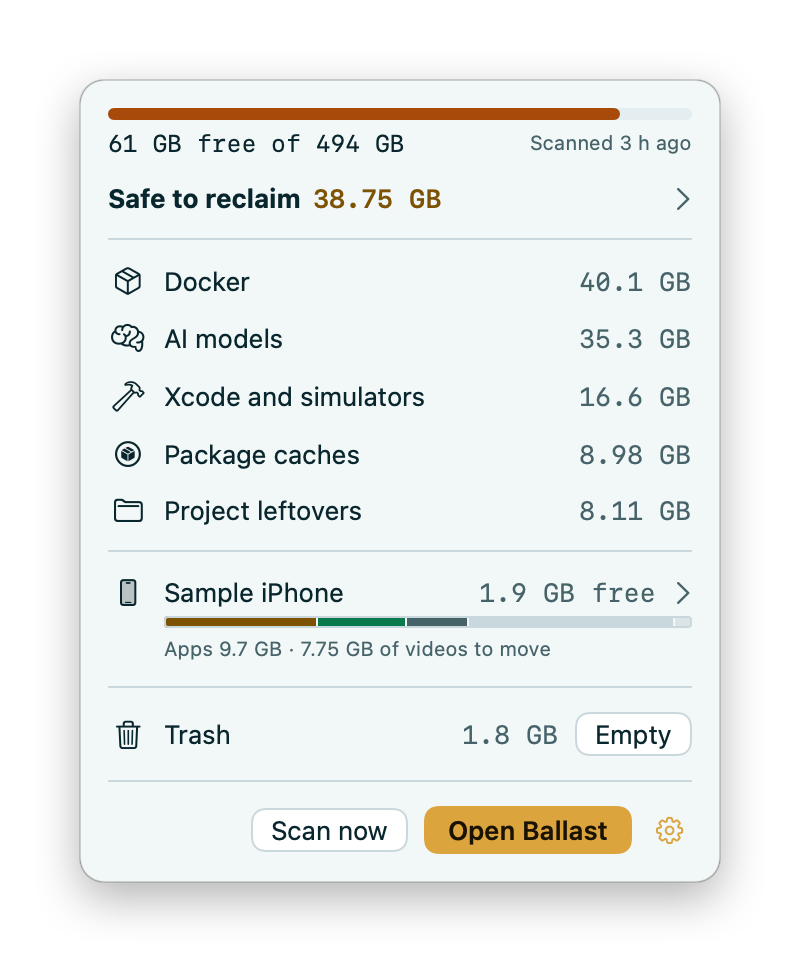
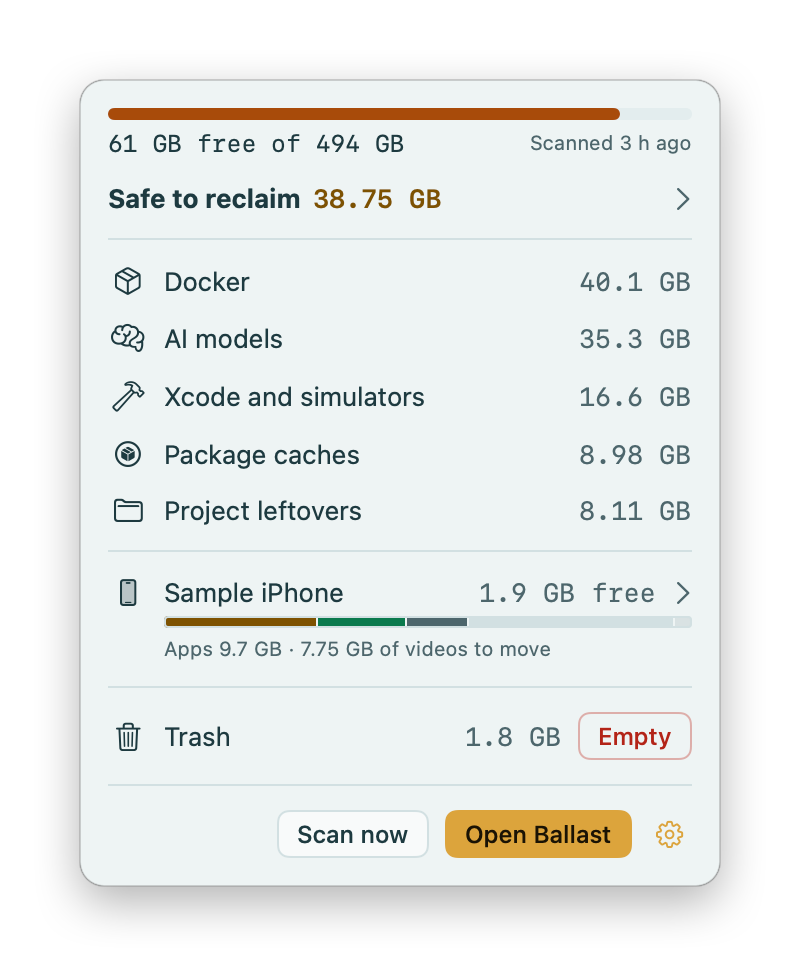
Theme the title bar, soften the palette, red destructive buttons, tidy Safe view and compact buttons
Claude-Session: https://claude.ai/code/session_01RaspoV6U3Bfch7QViyphcX

diff --git a/Sources/Ballast/Theme.swift b/Sources/Ballast/Theme.swift
@@ -15,29 +15,31 @@ enum Theme {
         })
     }
 
-    static let bg = dynamic("bg", dark: hex(0x061418), light: hex(0xF2F7F7))
-    static let bg2 = dynamic("bg2", dark: hex(0x0A1E24), light: hex(0xFFFFFF))
-    static let bg3 = dynamic("bg3", dark: hex(0x10303A), light: hex(0xE4EEF0))
-    static let line = dynamic("line", dark: hex(0x1F3F48), light: hex(0xC9D9DC))
-    static let text = dynamic("text", dark: hex(0xE9F2F3), light: hex(0x08262D))
-    static let muted = dynamic("muted", dark: hex(0x93AEB3), light: hex(0x46636A))
+    static let bg = dynamic("bg", dark: hex(0x0C1F24), light: hex(0xEEF4F4))
+    static let bg2 = dynamic("bg2", dark: hex(0x10262C), light: hex(0xF7FAFA))
+    static let bg3 = dynamic("bg3", dark: hex(0x173540), light: hex(0xE3EDEE))
+    static let line = dynamic("line", dark: hex(0x1F3A42), light: hex(0xD3E0E2))
+    static let text = dynamic("text", dark: hex(0xD6E3E5), light: hex(0x1D3A40))
+    static let muted = dynamic("muted", dark: hex(0x8BA6AB), light: hex(0x4D666C))
     /// Brass as text: the headline totals.
-    static let accent = dynamic("accent", dark: hex(0xE3B04B), light: hex(0x7D5200))
+    static let accent = dynamic("accent", dark: hex(0xD4A849), light: hex(0x7D5200))
     /// Brass as a surface: buttons, toggles, progress.
-    static let ctaBg = dynamic("ctaBg", dark: hex(0xE3B04B), light: hex(0xDBA43C))
+    static let ctaBg = dynamic("ctaBg", dark: hex(0xD4A849), light: hex(0xDBA43C))
     static let ctaText = dynamic("ctaText", dark: hex(0x1A1204), light: hex(0x1A1204))
-    static let ok = dynamic("ok", dark: hex(0x4FD19A), light: hex(0x0B7A4D))
-    static let review = dynamic("review", dark: hex(0xFF9A5C), light: hex(0xA84A0B))
-    static let danger = dynamic("danger", dark: hex(0xFF6B6B), light: hex(0xB42318))
-    static let tintOK = dynamic("tintOK", dark: hex(0x4FD19A, 0.12), light: hex(0x0B7A4D, 0.10))
-    static let tintReview = dynamic("tintReview", dark: hex(0xFF9A5C, 0.13), light: hex(0xA84A0B, 0.10))
-    static let tintNeutral = dynamic("tintNeutral", dark: hex(0x93AEB3, 0.16), light: hex(0x46636A, 0.12))
-    static let dangerBg = dynamic("dangerBg", dark: hex(0xFF6B6B, 0.10), light: hex(0xB42318, 0.07))
-    static let dangerLine = dynamic("dangerLine", dark: hex(0xFF6B6B, 0.40), light: hex(0xB42318, 0.35))
+    static let ok = dynamic("ok", dark: hex(0x5FBF9A), light: hex(0x0B7A4D))
+    static let review = dynamic("review", dark: hex(0xE89A66), light: hex(0xA84A0B))
+    static let danger = dynamic("danger", dark: hex(0xE87878), light: hex(0xB42318))
+    static let tintOK = dynamic("tintOK", dark: hex(0x5FBF9A, 0.10), light: hex(0x0B7A4D, 0.10))
+    static let tintReview = dynamic("tintReview", dark: hex(0xE89A66, 0.11), light: hex(0xA84A0B, 0.10))
+    static let tintNeutral = dynamic("tintNeutral", dark: hex(0x8BA6AB, 0.14), light: hex(0x46636A, 0.12))
+    static let dangerBg = dynamic("dangerBg", dark: hex(0xE87878, 0.09), light: hex(0xB42318, 0.07))
+    static let dangerLine = dynamic("dangerLine", dark: hex(0xE87878, 0.38), light: hex(0xB42318, 0.35))
     /// Sidebar selection: a step up from the sidebar surface.
     static let selection = bg3
     /// Text on a danger-filled button.
-    static let onDanger = dynamic("onDanger", dark: hex(0x1A0606), light: hex(0xFFFFFF))
+    static let onDanger = dynamic("onDanger", dark: hex(0xFDECEB), light: hex(0xFFFFFF))
+    /// Solid fill for a destructive commit button (light text on it).
+    static let dangerFill = dynamic("dangerFill", dark: hex(0xB8423A), light: hex(0xB42318))
 
     /// Sizes and paths, like the site's ledger.
     static func mono(_ style: Font.TextStyle = .body) -> Font { .system(style, design: .monospaced) }
@@ -77,17 +79,44 @@ struct Tag: View {
     }
 }
 
-/// Brass fill with dark text: Remove, Review and remove…, Continue.
+/// Metrics shared by the button styles: regular, or compact when the button says `.controlSize(.small)`
+/// (inline row actions and the popover). Compact buttons are 24pt tall so neighbours line up.
+private struct ButtonMetrics {
+    let small: Bool
+    var radius: CGFloat { small ? 6 : 7 }
+    var hPad: CGFloat { small ? 10 : 12 }
+    func font(bold: Bool) -> Font { small ? .callout.weight(.medium) : (bold ? .body.weight(.semibold) : .body) }
+    func frame<V: View>(_ v: V) -> some View {
+        v.padding(.horizontal, hPad).padding(.vertical, small ? 0 : 4).frame(minHeight: small ? 24 : nil)
+    }
+}
+
+/// Brass fill with dark text: non-destructive primary actions (Open Ballast, Scan, Continue, Close).
 struct BrassButtonStyle: ButtonStyle {
     @SwiftUI.Environment(\.isEnabled) private var isEnabled
-    var danger = false
+    @SwiftUI.Environment(\.controlSize) private var size
 
     func makeBody(configuration: Configuration) -> some View {
-        configuration.label
-            .font(.body.weight(.semibold))
-            .foregroundStyle(danger ? Theme.onDanger : Theme.ctaText)
-            .padding(.horizontal, 12).padding(.vertical, 4)
-            .background(RoundedRectangle(cornerRadius: 7).fill(danger ? Theme.danger : Theme.ctaBg))
+        let m = ButtonMetrics(small: size == .small)
+        m.frame(configuration.label.font(m.font(bold: true)).foregroundStyle(Theme.ctaText))
+            .background(RoundedRectangle(cornerRadius: m.radius).fill(Theme.ctaBg))
+            .opacity(isEnabled ? (configuration.isPressed ? 0.8 : 1) : 0.4)
+    }
+}
+
+/// Red buttons for anything that removes, deletes or moves things off a device.
+/// Solid with light text commits the action; `outline` only opens a confirmation or is an inline row action.
+struct DangerButtonStyle: ButtonStyle {
+    @SwiftUI.Environment(\.isEnabled) private var isEnabled
+    @SwiftUI.Environment(\.controlSize) private var size
+    var outline = false
+
+    func makeBody(configuration: Configuration) -> some View {
+        let m = ButtonMetrics(small: size == .small)
+        m.frame(configuration.label.font(outline ? (m.small ? m.font(bold: false) : .callout) : m.font(bold: true))
+            .foregroundStyle(outline ? Theme.danger : Theme.onDanger))
+            .background(RoundedRectangle(cornerRadius: m.radius).fill(outline ? (configuration.isPressed ? Theme.dangerBg : Color.clear) : Theme.dangerFill))
+            .overlay(RoundedRectangle(cornerRadius: m.radius).strokeBorder(outline ? Theme.dangerLine : Color.clear))
             .opacity(isEnabled ? (configuration.isPressed ? 0.8 : 1) : 0.4)
     }
 }
@@ -95,13 +124,13 @@ struct BrassButtonStyle: ButtonStyle {
 /// Quiet bordered button on teal: secondary actions.
 struct LineButtonStyle: ButtonStyle {
     @SwiftUI.Environment(\.isEnabled) private var isEnabled
+    @SwiftUI.Environment(\.controlSize) private var size
 
     func makeBody(configuration: Configuration) -> some View {
-        configuration.label
-            .foregroundStyle(Theme.text)
-            .padding(.horizontal, 10).padding(.vertical, 3)
-            .background(RoundedRectangle(cornerRadius: 7).fill(configuration.isPressed ? Theme.bg3 : Theme.bg2))
-            .overlay(RoundedRectangle(cornerRadius: 7).strokeBorder(Theme.line))
+        let m = ButtonMetrics(small: size == .small)
+        m.frame(configuration.label.font(m.font(bold: false)).foregroundStyle(Theme.text))
+            .background(RoundedRectangle(cornerRadius: m.radius).fill(configuration.isPressed ? Theme.bg3 : Theme.bg2))
+            .overlay(RoundedRectangle(cornerRadius: m.radius).strokeBorder(Theme.line))
             .opacity(isEnabled ? 1 : 0.45)
     }
 }
@@ -121,4 +150,33 @@ extension View {
 /// A 1pt rule in `line`, in place of the system Divider.
 struct Rule: View {
     var body: some View { Theme.line.frame(height: 1) }
+}
+
+/// SwiftUI's Table draws its column-header strip in system grey; this reaches the underlying NSTableView and
+/// paints the strip in the theme colour instead.
+struct TableHeaderSkin: NSViewRepresentable {
+    func makeNSView(context: Context) -> NSView { NSView() }
+
+    func updateNSView(_ view: NSView, context: Context) {
+        DispatchQueue.main.async {
+            guard let root = view.window?.contentView else { return }
+            Self.skin(in: root)
+        }
+    }
+
+    private static func skin(in v: NSView) {
+        if let table = v as? NSTableView {
+            table.backgroundColor = .clear
+            if let header = table.headerView {
+                // Resolve the dynamic colour for this window's appearance, not whatever happens to be current.
+                var cg = NSColor(Theme.bg2).cgColor
+                header.effectiveAppearance.performAsCurrentDrawingAppearance { cg = NSColor(Theme.bg2).cgColor }
+                header.wantsLayer = true
+                header.layer?.backgroundColor = cg
+                header.superview?.wantsLayer = true
+                header.superview?.layer?.backgroundColor = cg
+            }
+        }
+        for s in v.subviews { skin(in: s) }
+    }
 }

diff --git a/Sources/Ballast/SafeView.swift b/Sources/Ballast/SafeView.swift
@@ -5,6 +5,8 @@ import SwiftUI
 /// list and confirmation, with these items ticked.
 struct SafeView: View {
     static let id = "safe"
+    /// Leading and trailing inset shared by the page header, the section headers and the rows.
+    static let inset: CGFloat = 14
     let model: AppModel
 
     var groups: [(report: ConcernReport, items: [Item])] { safeGroups(model.reports) }
@@ -29,37 +31,45 @@ struct SafeView: View {
                         .frame(maxWidth: .infinity, maxHeight: .infinity)
                 }
             } else {
-                List {
-                    ForEach(groups, id: \.report.id) { group in
-                        SwiftUI.Section {
-                            ForEach(group.items) { item in
-                                HStack {
-                                    VStack(alignment: .leading, spacing: 2) {
-                                        Text(item.title)
-                                        if let detail = item.detail {
-                                            Text(detail).font(Theme.mono(.caption)).foregroundStyle(Theme.muted).lineLimit(1).truncationMode(.middle)
+                ScrollView {
+                    LazyVStack(spacing: 0, pinnedViews: .sectionHeaders) {
+                        ForEach(groups, id: \.report.id) { group in
+                            SwiftUI.Section {
+                                ForEach(group.items) { item in
+                                    HStack {
+                                        VStack(alignment: .leading, spacing: 2) {
+                                            Text(item.title)
+                                            if let detail = item.detail {
+                                                Text(detail).font(Theme.mono(.caption)).foregroundStyle(Theme.muted).lineLimit(1).truncationMode(.middle)
+                                            }
                                         }
+                                        Spacer()
+                                        Text(formatBytes(item.bytes)).font(Theme.mono(.callout)).foregroundStyle(Theme.muted)
                                     }
-                                    Spacer()
-                                    Text(formatBytes(item.bytes)).font(Theme.mono(.callout)).foregroundStyle(Theme.muted)
+                                    .padding(.horizontal, Self.inset).padding(.vertical, 7)
                                 }
-                            }
-                        } header: {
-                            HStack {
-                                Label(group.report.title, systemImage: group.report.symbol)
-                                Text(formatBytes(group.items.reduce(0) { $0 + $1.bytes })).font(Theme.mono(.callout)).foregroundStyle(Theme.accent)
-                                Spacer()
-                                Button("Review and remove…") {
-                                    model.checked[group.report.id] = Set(group.items.map(\.id))
-                                    model.selection = group.report.id
+                                Spacer().frame(height: 18)
+                            } header: {
+                                VStack(spacing: 0) {
+                                    HStack {
+                                        Label(group.report.title, systemImage: group.report.symbol).font(.headline)
+                                        Text(formatBytes(group.items.reduce(0) { $0 + $1.bytes })).font(Theme.mono(.callout)).foregroundStyle(Theme.accent)
+                                        Spacer()
+                                        Button("Review and remove…") {
+                                            model.checked[group.report.id] = Set(group.items.map(\.id))
+                                            model.selection = group.report.id
+                                        }
+                                        .buttonStyle(DangerButtonStyle(outline: true))
+                                        .controlSize(.small)
+                                    }
+                                    .padding(.horizontal, Self.inset).padding(.vertical, 10)
+                                    Rule()
                                 }
-                                .buttonStyle(BrassButtonStyle())
-                                .controlSize(.small)
+                                .background(Theme.bg)
                             }
                         }
                     }
                 }
-                .ballastList()
             }
         }
         .background(Theme.bg)

diff --git a/Sources/Ballast/ConcernDetail.swift b/Sources/Ballast/ConcernDetail.swift
@@ -39,7 +39,7 @@ struct ConcernDetail: View {
             Spacer()
             if let provider, let report {
                 ForEach(provider.extraActions(report.items)) { action in
-                    Button(action.title) { Task { await model.prepare(concern: concernID, ids: [action.id]) } }.buttonStyle(LineButtonStyle())
+                    Button(action.title) { Task { await model.prepare(concern: concernID, ids: [action.id]) } }.buttonStyle(DangerButtonStyle(outline: true))
                 }
             }
             Button("Rescan") { Task { await model.scanNow(only: [concernID]) } }
@@ -96,19 +96,20 @@ struct ConcernDetail: View {
             .width(90)
         }
         .alternatingRowBackgrounds(.disabled)
+        .background(TableHeaderSkin())
         .ballastList()
     }
 
     var bottomBar: some View {
         let chosen = items.filter { checked.contains($0.id) }
         return HStack {
-            Button("Select safe") { model.checked[concernID] = selectSafe(items) }.buttonStyle(LineButtonStyle())
-            Button("Select none") { model.checked[concernID] = [] }.buttonStyle(LineButtonStyle()).disabled(chosen.isEmpty)
+            Button("Select safe") { model.checked[concernID] = selectSafe(items) }.buttonStyle(LineButtonStyle()).controlSize(.small)
+            Button("Select none") { model.checked[concernID] = [] }.buttonStyle(LineButtonStyle()).controlSize(.small).disabled(chosen.isEmpty)
             Spacer()
             Button(removeLabel(count: chosen.count, bytes: chosen.reduce(0) { $0 + $1.bytes })) {
                 Task { await model.prepare(concern: concernID, ids: chosen.map(\.id)) }
             }
-            .buttonStyle(BrassButtonStyle())
+            .buttonStyle(DangerButtonStyle())
             .keyboardShortcut(.defaultAction)
             .disabled(chosen.isEmpty)
         }

diff --git a/Sources/Ballast/Popover.swift b/Sources/Ballast/Popover.swift
@@ -140,7 +140,8 @@ struct Popover: View {
                 Text(formatBytes(bytes)).font(Theme.mono()).foregroundStyle(Theme.muted)
             }
             Button("Empty") { Task { await model.emptyTrash() } }
-                .buttonStyle(LineButtonStyle())
+                .buttonStyle(DangerButtonStyle(outline: true))
+                .controlSize(.small)
                 .disabled(model.trashBytes == 0)
         }
     }
@@ -149,8 +150,8 @@ struct Popover: View {
         HStack {
             if model.scanning { ProgressView().controlSize(.small) }
             Spacer()
-            Button("Scan now") { Task { await model.scanNow() } }.buttonStyle(LineButtonStyle()).disabled(model.scanning)
-            Button("Open Ballast") { open(nil) }.buttonStyle(BrassButtonStyle())
+            Button("Scan now") { Task { await model.scanNow() } }.buttonStyle(LineButtonStyle()).controlSize(.small).disabled(model.scanning)
+            Button("Open Ballast") { open(nil) }.buttonStyle(BrassButtonStyle()).controlSize(.small)
             Menu {
                 Text("Ballast \(model.updates.current)")  // disabled: it only says which version this is
                 Divider()

diff --git a/Sources/Ballast/Windows.swift b/Sources/Ballast/Windows.swift
@@ -31,12 +31,21 @@ import SwiftUI
         let w = NSWindow(contentRect: NSRect(origin: .zero, size: size), styleMask: style, backing: .buffered, defer: false)
         w.title = title
         w.isReleasedWhenClosed = false
-        w.backgroundColor = NSColor(Theme.bg)
+        Self.skin(w)
         w.contentViewController = NSHostingController(rootView: content)
         w.setContentSize(size)
         w.center()
         w.delegate = self
         return w
+    }
+
+    /// Themes the title bar: transparent over the window colour, with the content running underneath it, so the
+    /// strip is the sidebar colour over the sidebar and the detail colour over the detail. The traffic lights,
+    /// title and drag-by-title-bar stay native. Shared with the screenshot renderer so both draw the same window.
+    static func skin(_ w: NSWindow) {
+        w.styleMask.insert(.fullSizeContentView)
+        w.titlebarAppearsTransparent = true
+        w.backgroundColor = NSColor(Theme.bg)
     }
 
     /// Ballast lives in the menu bar, but shows in the Dock and app switcher while one of its windows is open.

diff --git a/Sources/Ballast/ConfirmSheet.swift b/Sources/Ballast/ConfirmSheet.swift
@@ -84,7 +84,7 @@ struct ConfirmSheet: View {
                 case .running:
                     ProgressView().controlSize(.small)
                 case .finished:
-                    if state.trashed > 0 { Button("Empty Trash") { Task { await model.emptyTrash() } }.buttonStyle(LineButtonStyle()) }
+                    if state.trashed > 0 { Button("Empty Trash") { Task { await model.emptyTrash() } }.buttonStyle(DangerButtonStyle()) }
                     Button("Close") { model.run = nil }.buttonStyle(BrassButtonStyle()).keyboardShortcut(.defaultAction)
                 }
             }
@@ -98,7 +98,7 @@ struct ConfirmSheet: View {
         Button("\(state.provider.id == "iphone" ? "Go ahead" : "Remove") · \(formatBytes(state.plan.expectedBytes))", role: state.level == .dangerous ? .destructive : nil) {
             Task { await model.execute(state) }
         }
-        .buttonStyle(BrassButtonStyle(danger: state.level == .dangerous))
+        .buttonStyle(DangerButtonStyle())
         .disabled(!state.canRemove)
     }
 

diff --git a/Sources/Ballast/IPhoneDetail.swift b/Sources/Ballast/IPhoneDetail.swift
@@ -133,10 +133,10 @@ struct IPhoneDetail: View {
         default: "Review \(chosen.count) items… · \(size)"
         }
         return HStack {
-            Button("Select none") { model.checked[Self.id] = [] }.buttonStyle(LineButtonStyle()).disabled(chosen.isEmpty)
+            Button("Select none") { model.checked[Self.id] = [] }.buttonStyle(LineButtonStyle()).controlSize(.small).disabled(chosen.isEmpty)
             Spacer()
             Button(label) { Task { await model.prepare(concern: Self.id, ids: chosen.map(\.id)) } }
-                .buttonStyle(BrassButtonStyle())
+                .buttonStyle(DangerButtonStyle())
                 .keyboardShortcut(.defaultAction)
                 .disabled(chosen.isEmpty)
         }

diff --git a/Sources/Ballast/MainWindow.swift b/Sources/Ballast/MainWindow.swift
@@ -100,7 +100,7 @@ struct Sidebar: View {
             HStack {
                 Text("\(formatBytes(model.free)) free").font(.caption).foregroundStyle(Theme.muted)
                 Spacer()
-                Button("Scan all") { Task { await model.scanNow() } }.buttonStyle(LineButtonStyle()).disabled(model.scanning)
+                Button("Scan all") { Task { await model.scanNow() } }.buttonStyle(LineButtonStyle()).controlSize(.small).disabled(model.scanning)
             }
             .padding(10)
             .background(Theme.bg2)

diff --git a/Sources/Ballast/Screenshots.swift b/Sources/Ballast/Screenshots.swift
@@ -206,7 +206,7 @@ import SwiftUI
         w.appearance = NSAppearance(named: dark ? .darkAqua : .aqua)
         w.alphaValue = 0
         w.isReleasedWhenClosed = false
-        w.backgroundColor = NSColor(Theme.bg)
+        if title != nil { Windows.skin(w) } else { w.backgroundColor = NSColor(Theme.bg) }
         // Borderless windows (menu, sheet) get the window background a real menu or sheet would draw.
         let host = NSHostingView(rootView: view.background(Theme.bg))
         w.contentView = host

diff --git a/CHANGELOG.md b/CHANGELOG.md
@@ -1,5 +1,12 @@
 # Changelog
 
+## Unreleased
+
+- **The window's title bar now matches the rest of the window in light and dark.**
+- **Easier on the eye.** Softer teal and brass colours in both modes, with text kept comfortably readable.
+- **Anything that removes, deletes, uninstalls or empties is now red.** Brass is kept for everything else. The small buttons in the menu bar popover and the sidebar are more compact.
+- **Tidier "Safe to reclaim" page.** The section headers match the rest of the window and line up with the rows below them.
+
 ## 0.5.2 — 2026-11-01
 
 - **A new look.** Ballast now wears the same teal and brass colours as its website, in light and dark mode, following your Mac's appearance. Sizes and paths are set in a monospaced font, headline totals are brass, risk levels (Regenerable, Review, Your data) are coloured tags, and the "Read this first" warning on the confirm sheet stands out more. What Ballast finds and how it removes things hasn't changed.
